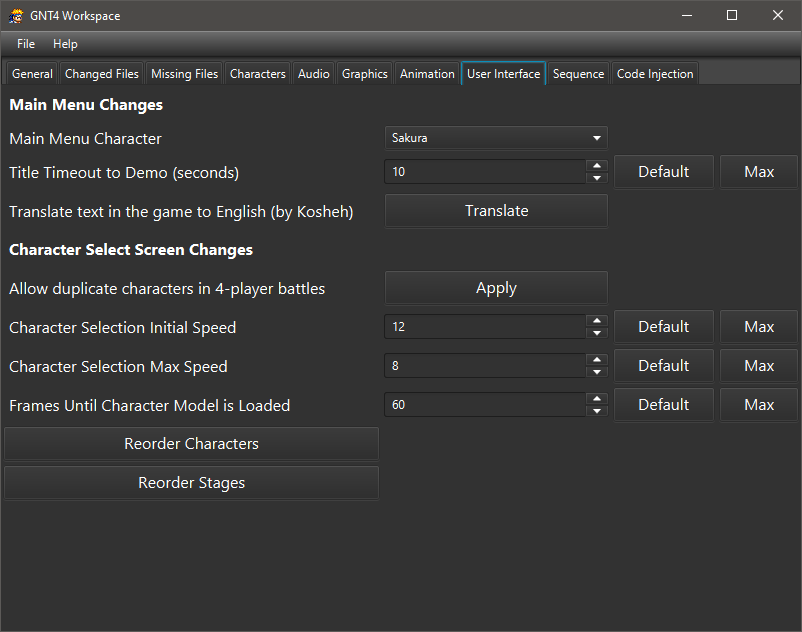
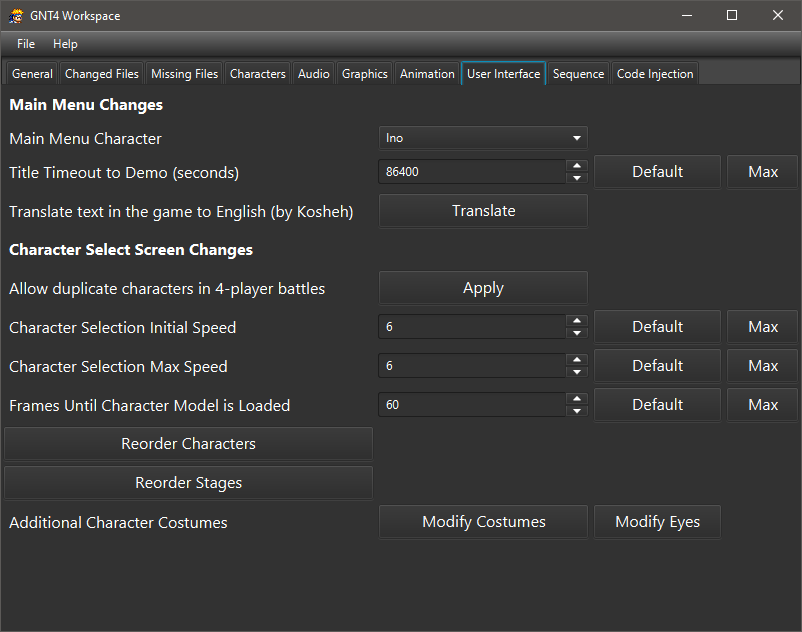
Update UI doc and link to new costumes doc

diff --git a/docs/ui.md b/docs/ui.md
@@ -8,6 +8,8 @@
 - [Frames Until Model is Loaded in Character Select Screen](#frames-until-model-is-loaded-in-character-select-screen)
 - [Reorder Characters](#reorder-characters)
 - [Reorder Stages](#reorder-stages)
+- [Modify Costumes](#modify-costumes)
+- [Modify Eyes](#modify-eyes)
 
 ![User Interface](/docs/ui.png?raw=true "User Interface")
 
@@ -58,3 +60,16 @@ so before you are able to change the order it first asks to remove these random 
 ## Reorder Stages
 
 Allows you to reorder the stages in the character select screen.
+
+## Modify Costumes
+
+Allows you to add third and fourth costumes to specific characters.
+
+For more info see [New Costumes](/docs/new_costumes.md).
+
+## Modify Eyes
+
+Allows you to use alternate eye textures for the second, third, and fourth costumes of specific
+characters.
+
+For more info see [New Costumes](/docs/new_costumes.md).
